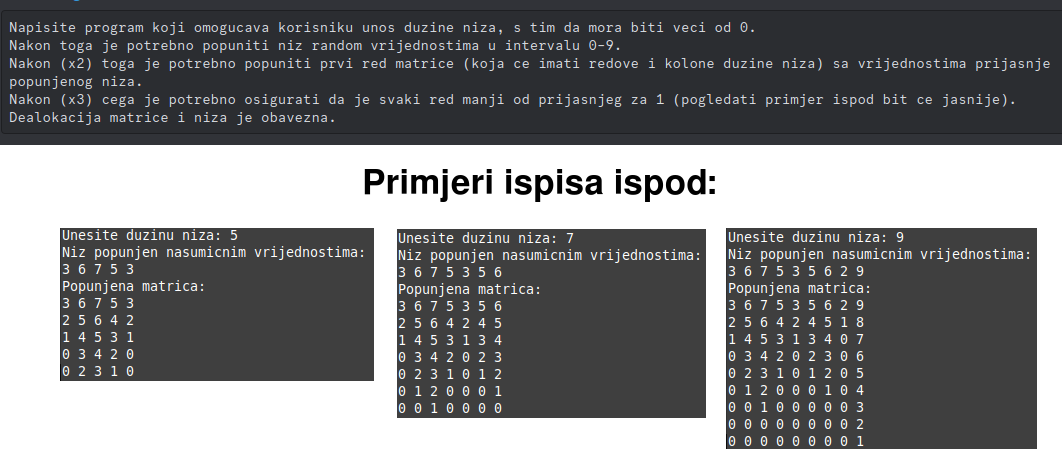
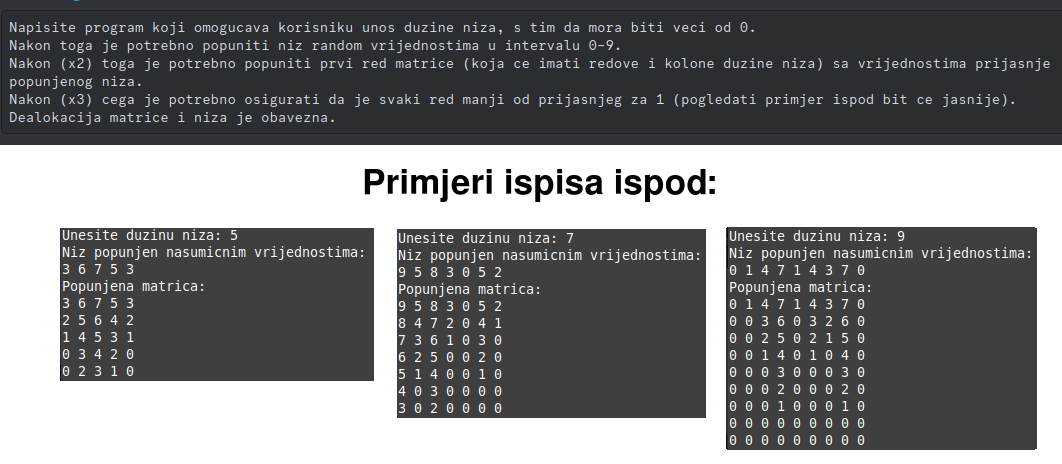
Forgot to put srand at the start of main

Changed region(s): [[0.6836, 0.4828, 0.9633, 0.9655], [0.3729, 0.6336, 0.4972, 0.875], [0.3729, 0.5733, 0.4972, 0.6034]]

diff --git a/task-12/main.cpp b/task-12/main.cpp
@@ -100,6 +100,8 @@ void printArray(const int* const arr, const std::size_t size) noexcept {
 }
 
 int main() {
+	std::srand(std::time(nullptr));
+
 	const std::size_t size { getSizeInput("Unesite duzinu niza: ") };
 	int* const arr { getArrayFilledWithRandomValues(size) };	
 	int** matrix { createMatrix(size, size) };
